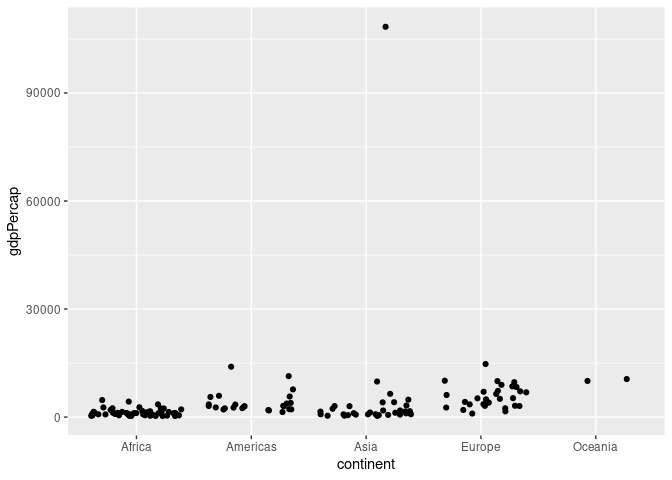
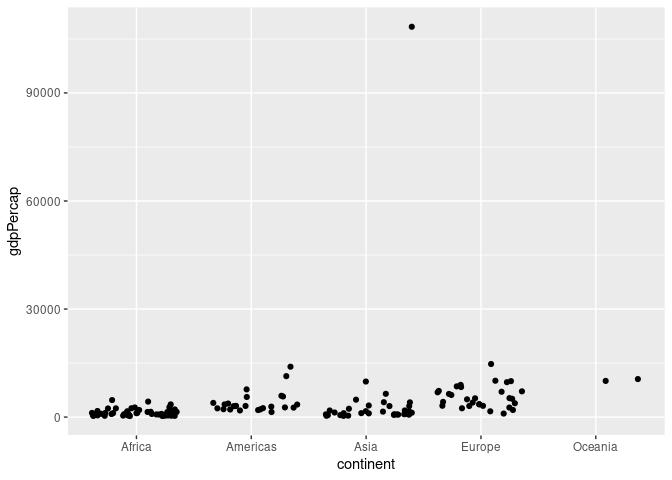
revised challenge 4

diff --git a/data-science-curriculum-build/data-science-curriculum-build/challenges/c04-gapminder-assignment.md b/data-science-curriculum-build/data-science-curriculum-build/challenges/c04-gapminder-assignment.md
@@ -214,7 +214,7 @@ can.
 gapminder %>% 
   filter(year == 1952) %>% 
   ggplot(aes(x = continent , y = gdpPercap)) +
-  geom_jitter() 
+  geom_jitter(height=0)
 ```
 
 ![](c04-gapminder-assignment_files/figure-gfm/q2-task-1.png)<!-- -->
@@ -224,7 +224,7 @@ gapminder %>%
 gapminder %>% 
   filter(year == 1952, gdpPercap < 90000) %>% 
   ggplot(aes(x = continent , y = gdpPercap)) +
-  geom_jitter() 
+  geom_jitter(height=0)
 ```
 
 ![](c04-gapminder-assignment_files/figure-gfm/q2-task-2.png)<!-- -->
@@ -360,13 +360,14 @@ variables; think about using different aesthetics or facets.
 gapminder %>% 
   filter(year == 1952 | year == 2007) %>% 
   ggplot(aes(x = continent , y = gdpPercap)) +
-  geom_jitter(
+  geom_jitter(height=0,
+              width=.35,
     data = . %>% 
       mutate(
         country = case_when(
           country %in% c("Kuwait", "Switzerland", "United States") ~ country,
           TRUE ~ "(other)"
-        )
+          )
       ),
     mapping = aes(color = country)
   ) +
@@ -385,8 +386,11 @@ gapminder %>%
 
 **Observations**:
 
-- Overall lots of countries have increased their gdpPercap, likely due
-  to inflation.
+- Overall lots of countries have increased their gdpPercap, this is
+  likely due to a multitude of factors including inflation and
+  productivity increases that started in the 1950s. The productivity
+  increases were caused by technological advances, and increased
+  automation. (<https://www.bls.gov/opub/mlr/1993/11/art1full.pdf>)
 - Kuwait has dramatically decreased its gpdPercap from 108382.35 to
   47306.99, and is no longer an extreme outlier as it no longer has the
   highest gpdPercap and there are several countries with similar values.
@@ -433,7 +437,7 @@ gapminder %>%
 gapminder %>% 
   filter(year == 1952 | year == 2007) %>% 
   ggplot(aes(x = continent , y = pop)) +
-  geom_jitter(
+  geom_jitter( height=0,
     data = . %>% 
       mutate(
         country = case_when(
@@ -466,6 +470,7 @@ gapminder %>%
     )
   ) +
   facet_wrap(~ year) +
+  scale_y_log10() +
   labs(color = "Country/Line")
 ```
 
@@ -489,7 +494,7 @@ gapminder %>%
 gapminder %>% 
   filter(country == "Kuwait" ) %>% 
   ggplot(aes(x = year , y = gdpPercap)) +
-  geom_jitter() 
+  geom_point()
 ```
 
 ![](c04-gapminder-assignment_files/figure-gfm/q5-task3-1.png)<!-- -->
